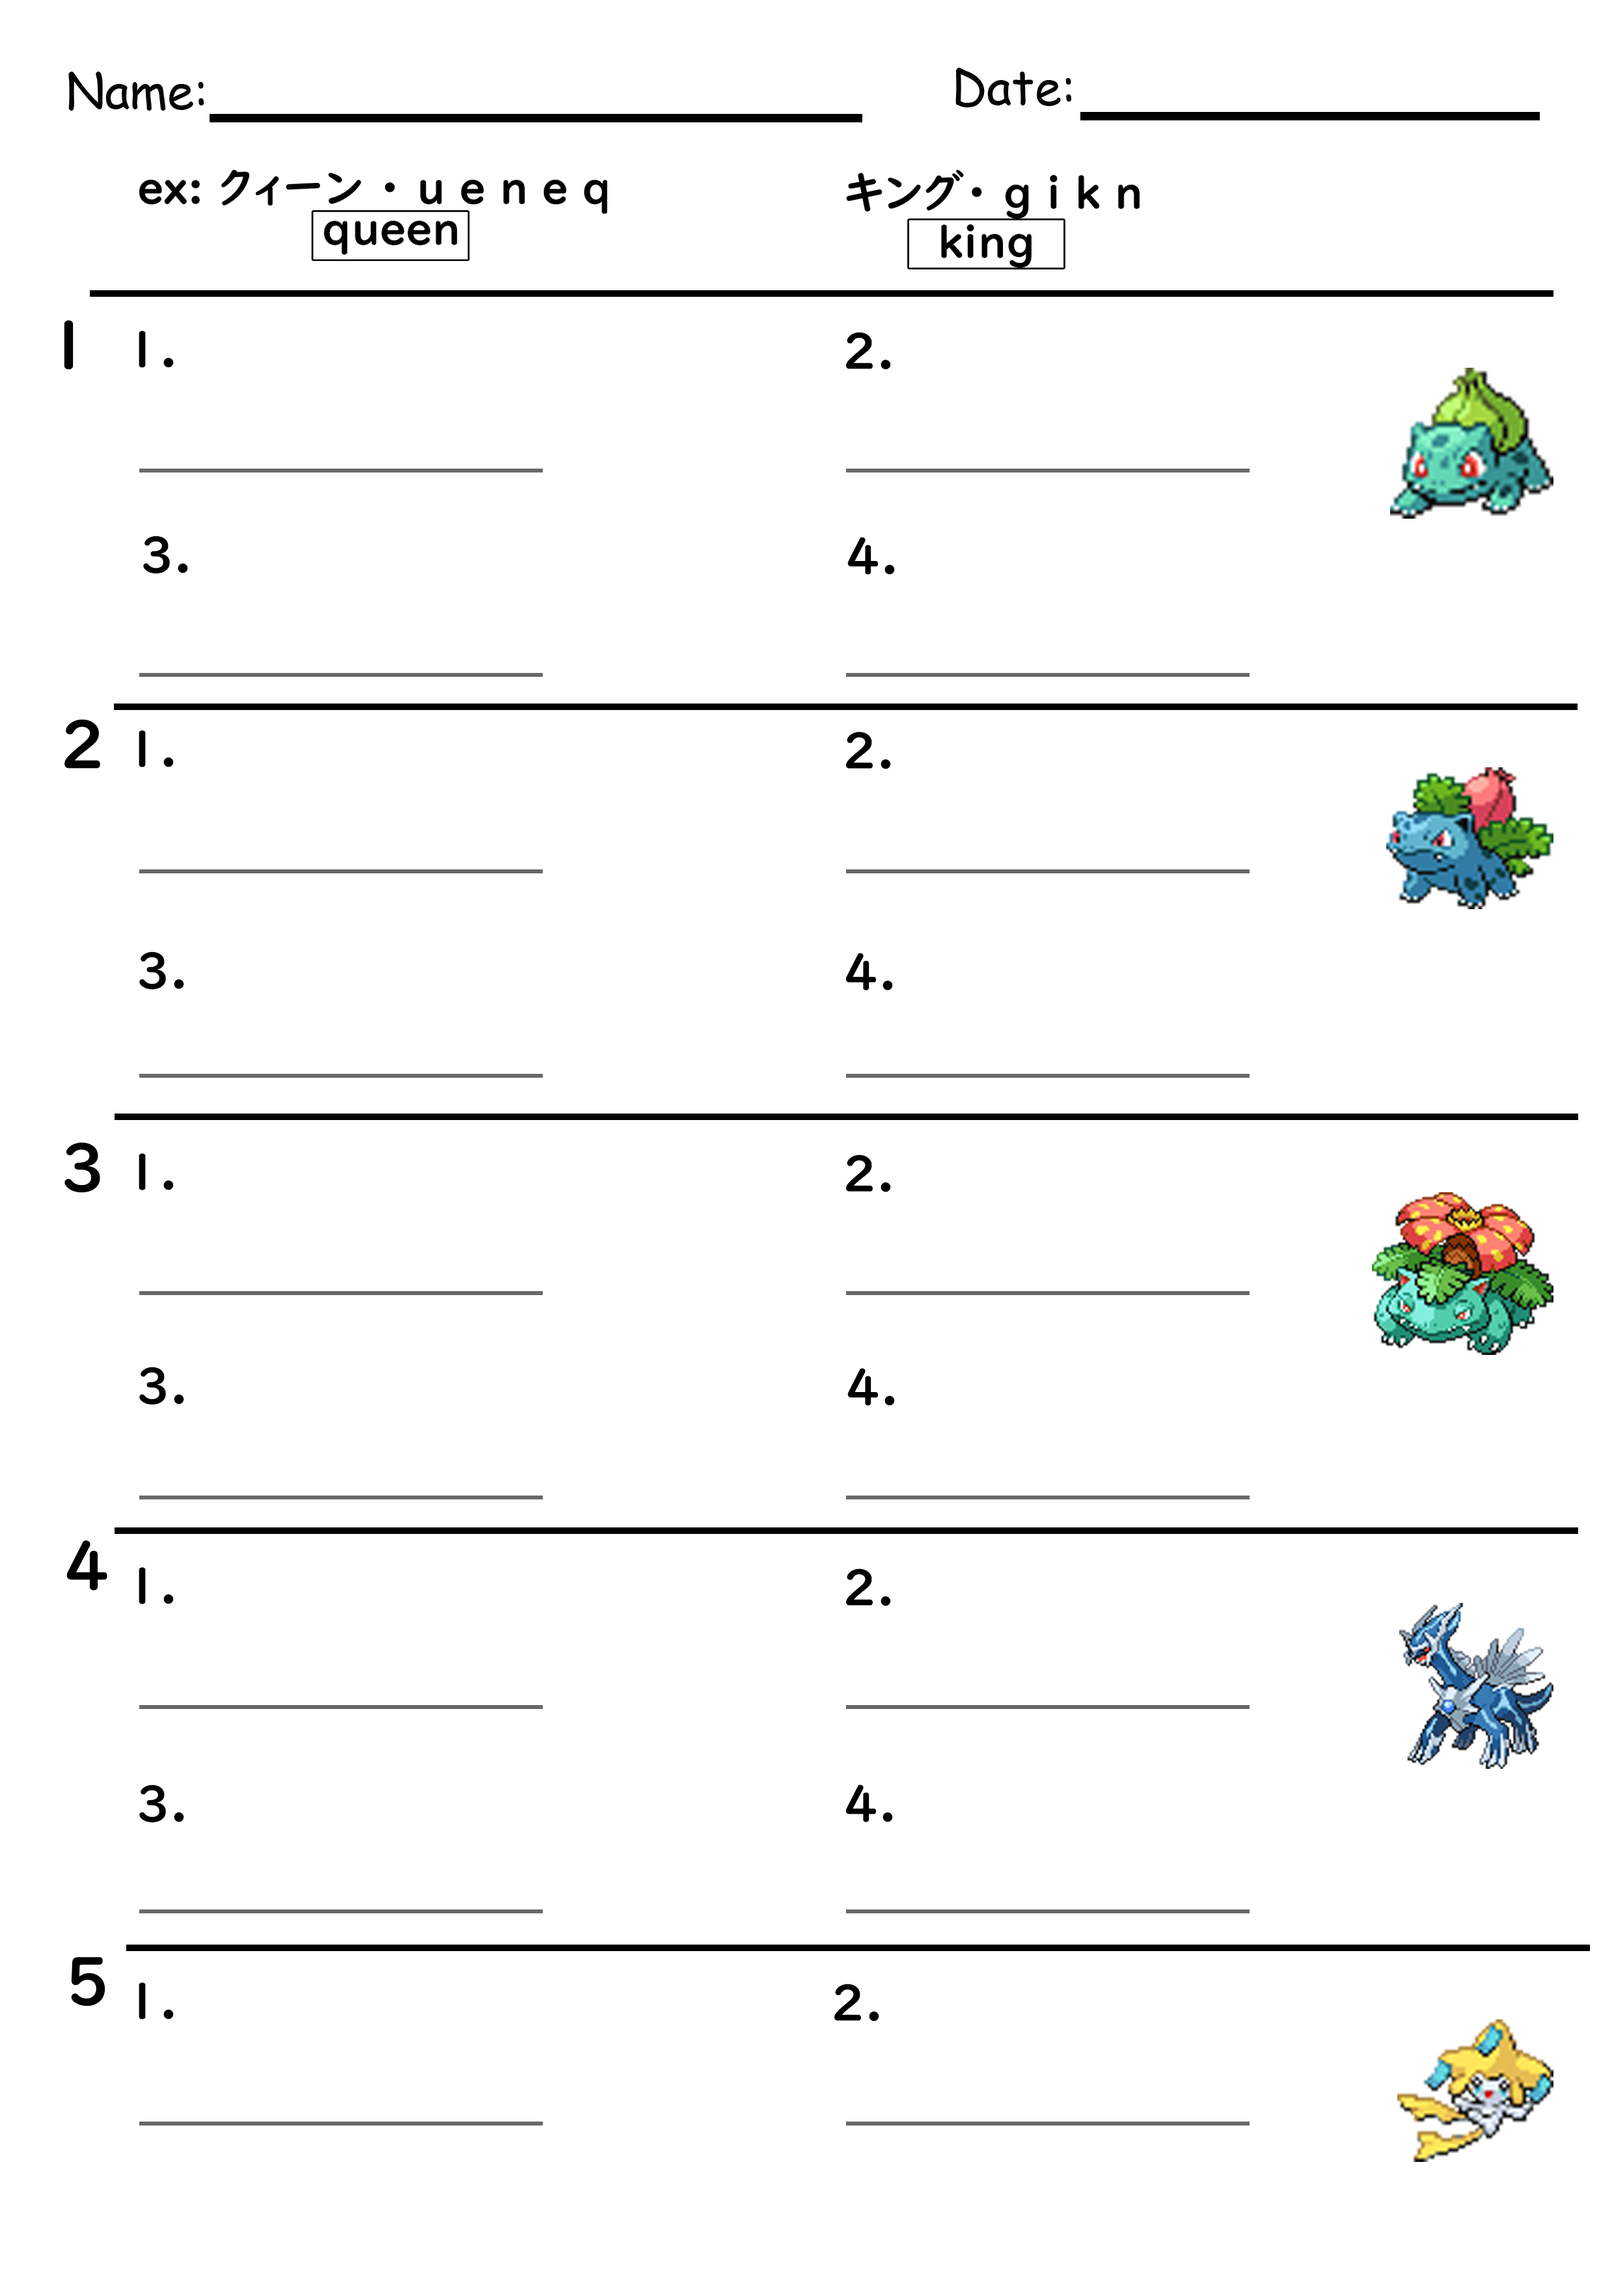
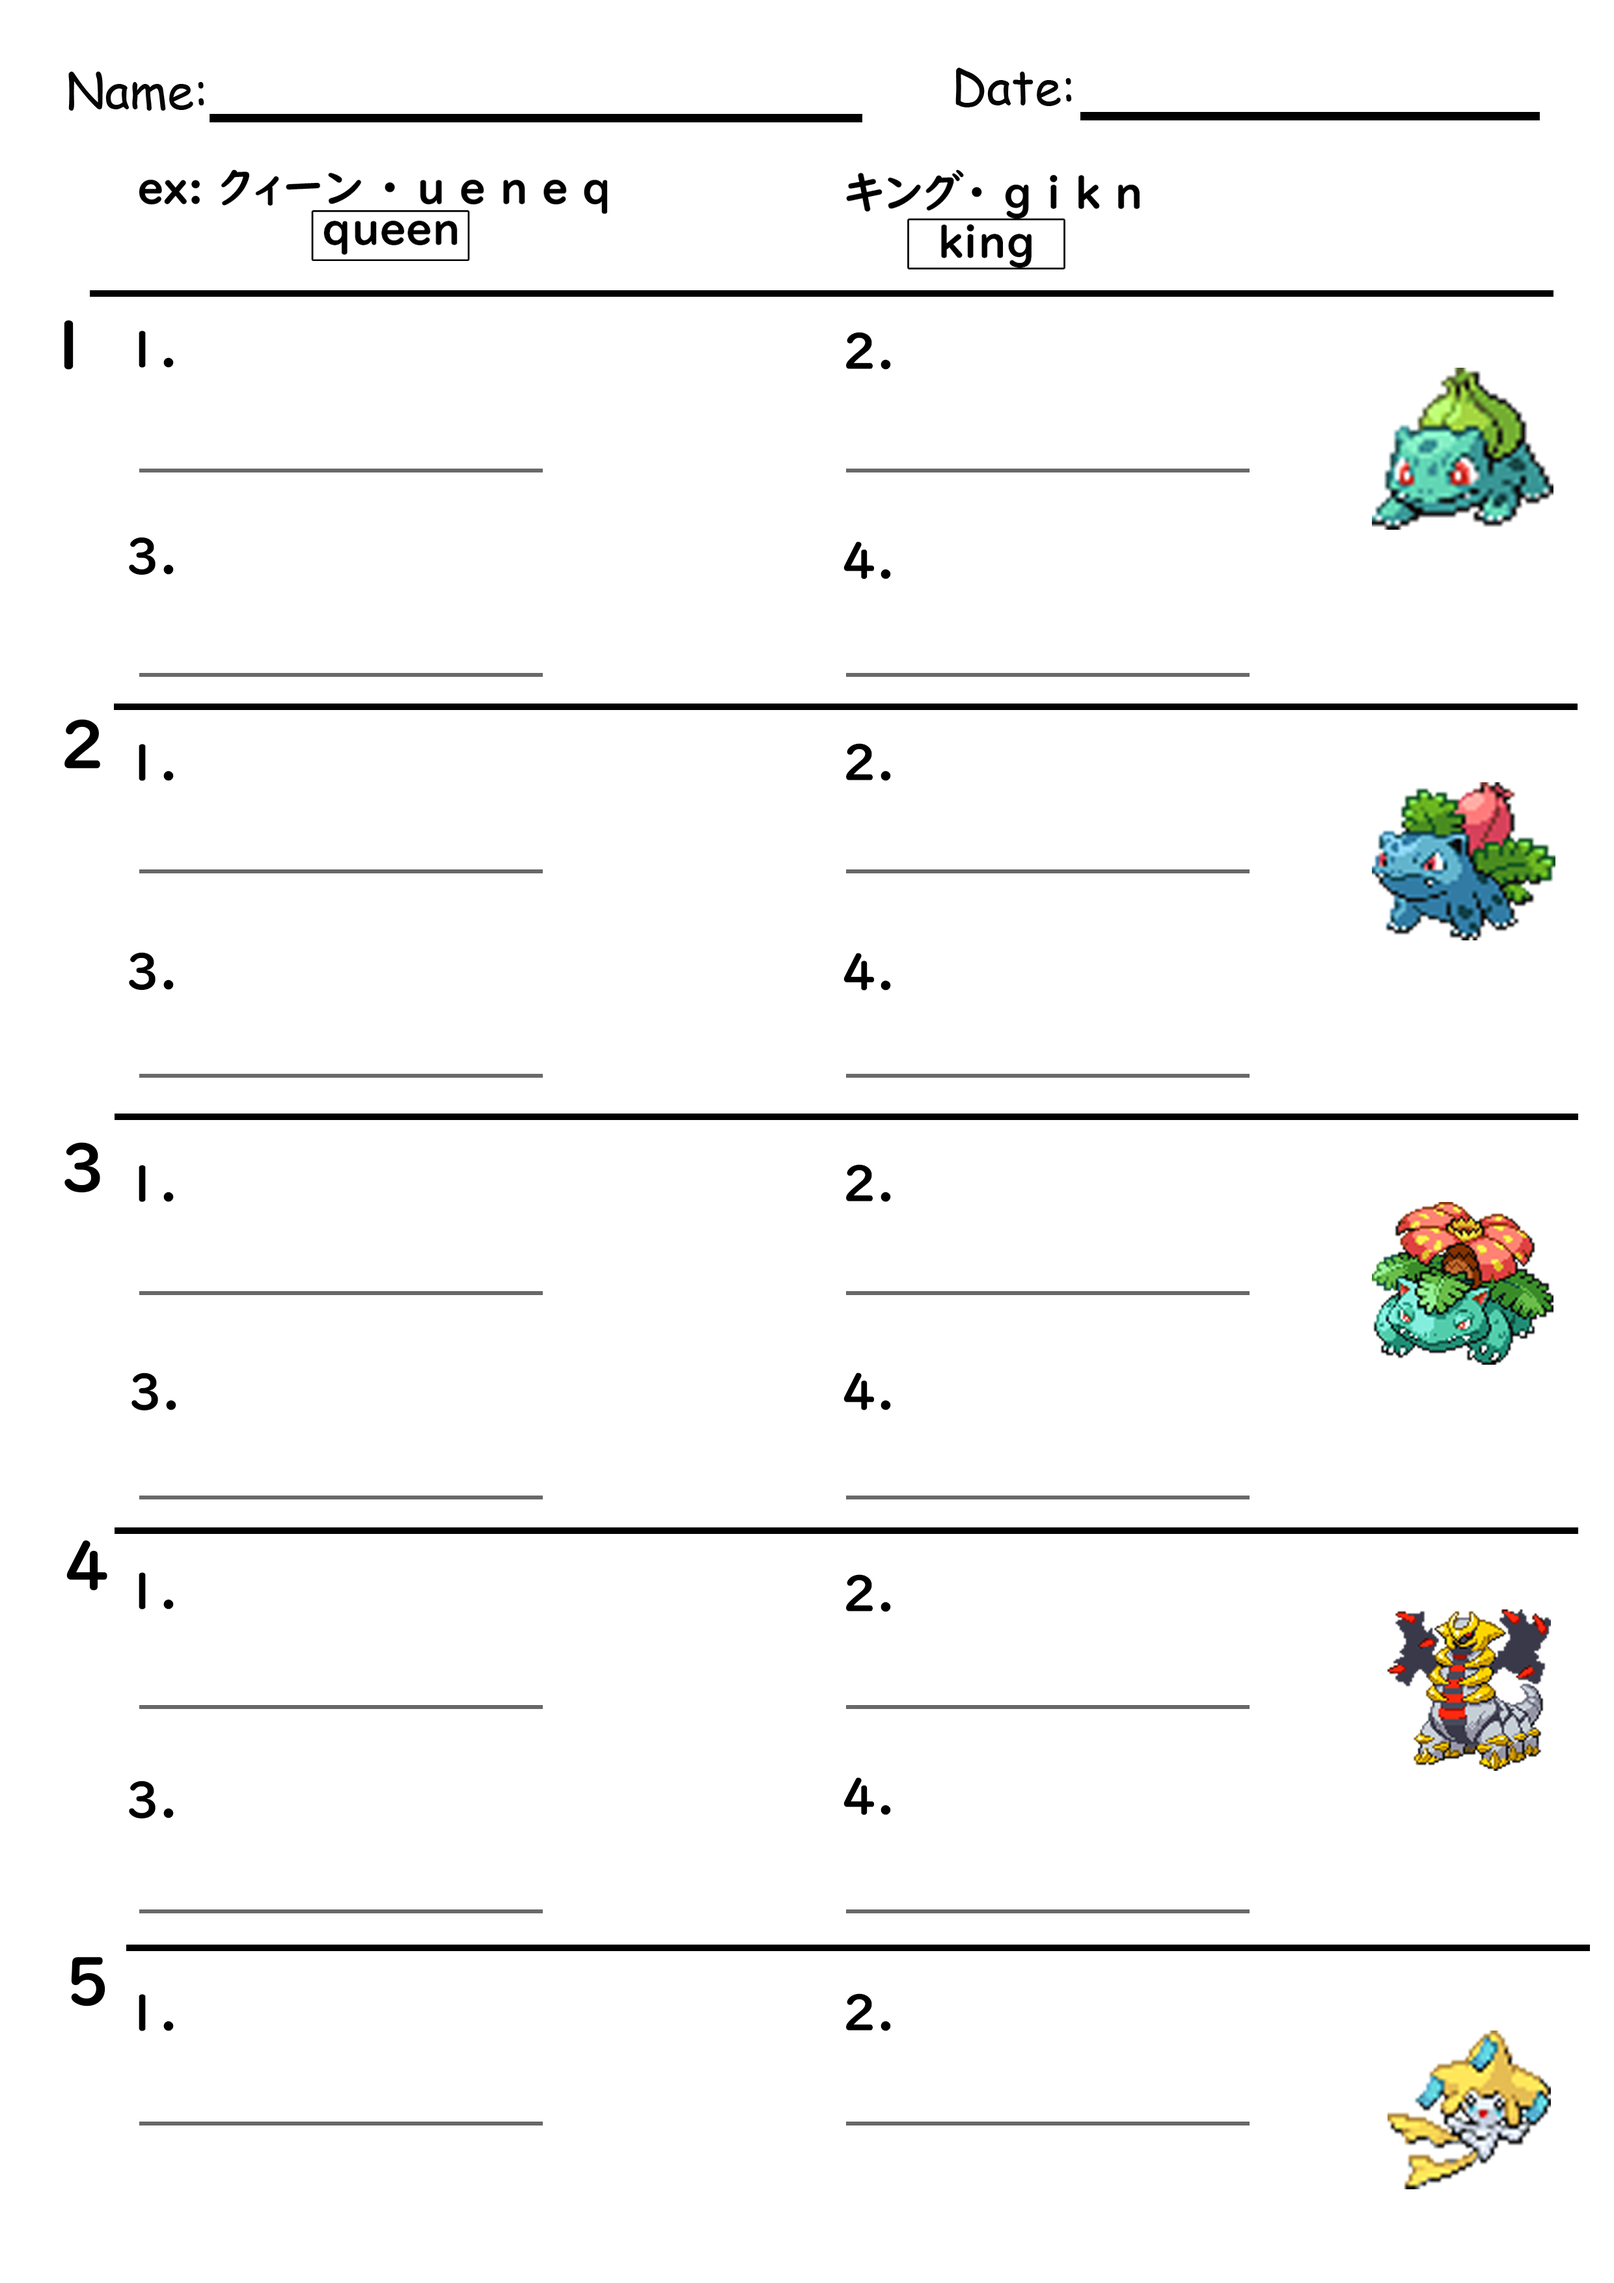
added comment and adjusted the locations of numbers in the pngs

diff --git a/pyScripts/soundOutTranslationScript.py b/pyScripts/soundOutTranslationScript.py
@@ -75,7 +75,7 @@ def processWordsWithLevels(levelsDict): #for processing words with levels
         }
     }
 
-def formatTextOutput(results):
+def formatTextOutput(results): #sets the text up for the results page
     lines = []
 
     levels = [ 
